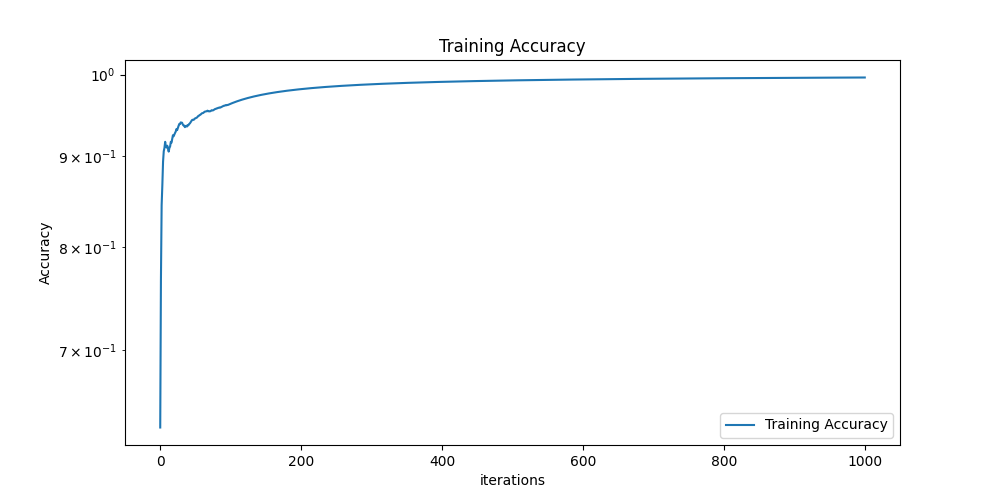
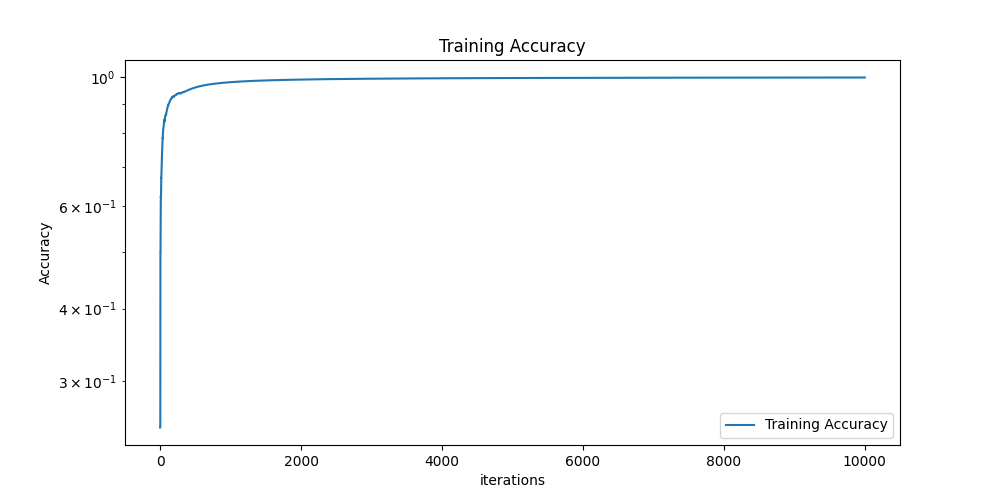
Added image cleaner

diff --git a/few_shot_learning/validation/episodal_training.py b/few_shot_learning/validation/episodal_training.py
@@ -1,22 +1,22 @@
 #!/usr/bin/env python3
-from tkinter.filedialog import test
+
+import os
+import random
+
+from easyfsl.data_tools import TaskSampler
+import matplotlib.pyplot as plt
+import numpy as np
+from omegaconf import OmegaConf
+import pandas as pd
+import seaborn as sns
+from sklearn.metrics import confusion_matrix
 import torch
 from torch import nn
 from torch.utils.data import DataLoader
 from torchvision import datasets, transforms
-from torchvision.models import resnet18, wide_resnet50_2
+from torchvision.models import resnet18
 from tqdm import tqdm
-import numpy as np
-from easyfsl.data_tools import TaskSampler
-from sklearn.metrics import confusion_matrix
-import random
-import os
-import pandas as pd
-import seaborn as sns
-import matplotlib.pyplot as plt
-from sklearn.metrics import classification_report
-from omegaconf import OmegaConf
-import torchvision
+
 
 random_seed = 0
 np.random.seed(random_seed)
@@ -29,6 +29,8 @@ image_size = 224
 custom_data_dir = r"data\processed\fsl_data_6_custom"
 
 val_data_dir = r"data\processed\fsl_val_6"
+
+new_val_data_dir = r'C:\DTU\master_thesis\MaritimeFewShotLearning\data\processed\new_data_may'
 
 data_conf = OmegaConf.load(r'few_shot_learning\utils\config.yaml')
 
@@ -47,7 +49,7 @@ train_data = datasets.ImageFolder(root = dir, transform = transforms.Compose(
         ]
     ),)
 
-val_data = datasets.ImageFolder(root = val_data_dir, transform = transforms.Compose(
+val_data = datasets.ImageFolder(root = new_val_data_dir, transform = transforms.Compose(
         [
             transforms.Resize(image_size),
             transforms.CenterCrop(image_size),
@@ -61,12 +63,12 @@ classes = os.listdir(dir)
 
 
 N_WAY = len(classes) # Number of classes
-N_SHOT = 5 # Number of images per class
-N_QUERY = 5 # Number of images per class in the query set
-N_EVALUATION_TASKS = 50
+N_SHOT = 2 # Number of images per class
+N_QUERY = 2 # Number of images per class in the query set
+N_EVALUATION_TASKS = 1000
 
 N_TRAINING_EPISODES = 1000
-N_VALIDATION_TASKS_2 = 100
+N_VALIDATION_TASKS_2 = 500
 
 #train_dataset.get_labels = lambda: [instance[1] for instance in train_dataset._flat_character_images]
 #train_dataset.labels = train_dataset.targets
@@ -218,7 +220,7 @@ def select_model(mode):
 
 # 1 - Custom trained ResNet18
 # 2 - Pretrained ResNet18 
-convolutional_network = select_model(2)
+convolutional_network = select_model(1)
 
 model = PrototypicalNetworkModel(convolutional_network)
 device = torch.device("cuda:0" if torch.cuda.is_available() else "cpu")

diff --git a/few_shot_learning/training/image_cleaner.py b/few_shot_learning/training/image_cleaner.py
@@ -1,0 +1,23 @@
+import os
+from PIL import Image
+
+#object_classes = ['buoys', 'harbour', 'human', 'large_commercial_vessel', 'leisure_craft', 'sailboats', 'small_medium_fishing_boat']
+#num_classes = len(object_classes)
+
+data_dir = r'C:\DTU\master_thesis\MaritimeFewShotLearning\data\processed\new_data_may/train_set'
+
+object_classes = os.listdir(data_dir)
+#class_to_idx = {classes[i]: i for i in range(len(classes))}
+
+for object_class in object_classes:
+    num_deleted_images = 0
+    data_path = os.path.join(data_dir, object_class)
+    for (root, dirs, files) in os.walk(data_path, topdown = True):
+        for file in files:
+            file_path = os.path.join(data_path, file)
+            with Image.open(file_path) as img:
+                img_size = img.size
+            if img_size[0] < 16 or img_size[1] < 16:
+                os.remove(file_path)
+                num_deleted_images += 1
+    print(f'The number of {object_class} images deleted is: ', num_deleted_images)     

diff --git a/few_shot_learning/validation/prototypical_network.py b/few_shot_learning/validation/prototypical_network.py
@@ -227,7 +227,7 @@ def main():
     )
     # 1 - Custom trained ResNet18
     # 2 - Pretrained ResNet18 
-    convolutional_network = select_model(2)
+    convolutional_network = select_model(1)
     model = PrototypicalNetworkModel(convolutional_network)
     model.to(device)
 
@@ -262,6 +262,7 @@ def main():
     ) = next(iter(test_loader))
     model_PATH = 'models/'
     torch.save(model.state_dict(), os.path.join(model_PATH,'fsl_protonet.pth'))
+
 
     exact, predicted, model_accuracy = evaluate(test_loader, model)
     cf_mat = confusion_matrix(exact, predicted)

diff --git a/few_shot_learning/utils/util_functions.py b/few_shot_learning/utils/util_functions.py
@@ -101,6 +101,7 @@ def pairwise(z_query, z_proto, device):
         d1.append(d2)
     return(torch.FloatTensor(d1).to(device))
 
+
 def cosinesimilarity(z_query, z_proto, device):
     '''
     Calculates the pairwise distance between two torch tensors
